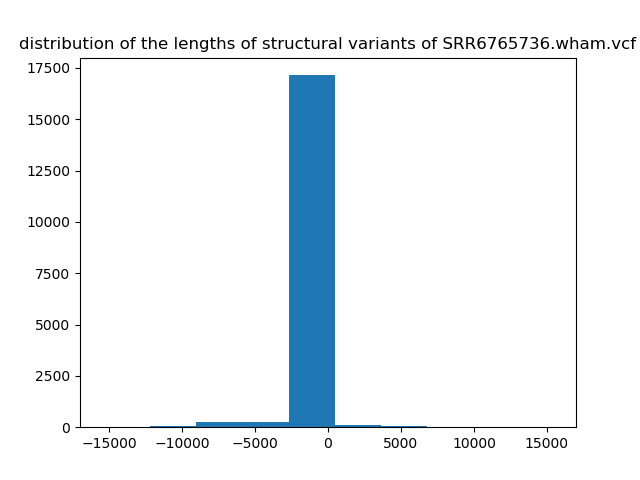
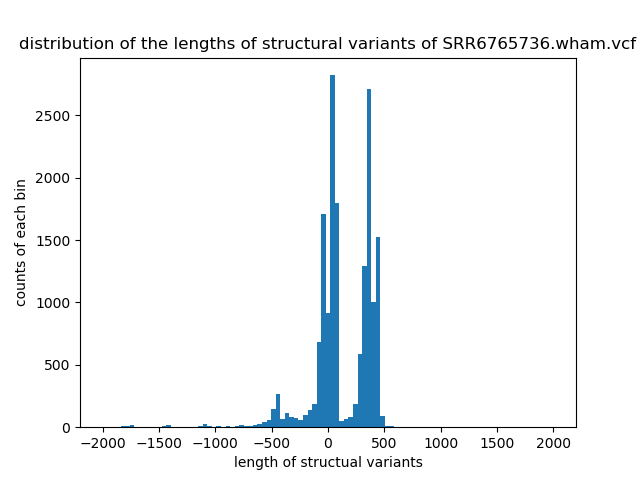
use short scale to plot structural variants and replot SNV density histogram

diff --git a/plot_q4.py b/plot_q4.py
@@ -1,6 +1,7 @@
 import matplotlib.pyplot as plt
 import sys
 import numpy as np
+#import seaborn as sns
 
 out=sys.argv[2]
 inp = sys.argv[1]
@@ -12,7 +13,11 @@ for i in raw:
     except:
         print(i)
 
-plt.hist(toplot,bins=10000)
-plt.xlim(-17000,17000)
+#plt.hist(toplot,bins=10000)
+#sns.displot(toplot, bins=np.linspace(-2000,2000,100))
+plt.hist(toplot, bins=np.linspace(-2000,2000,100))
+#plt.xlim(-17000,17000)
+plt.xlabel("length of structual variants")
+plt.ylabel("counts of each bin")
 plt.title("distribution of the lengths of structural variants of " + out)
 plt.savefig(out +".q4.png")
